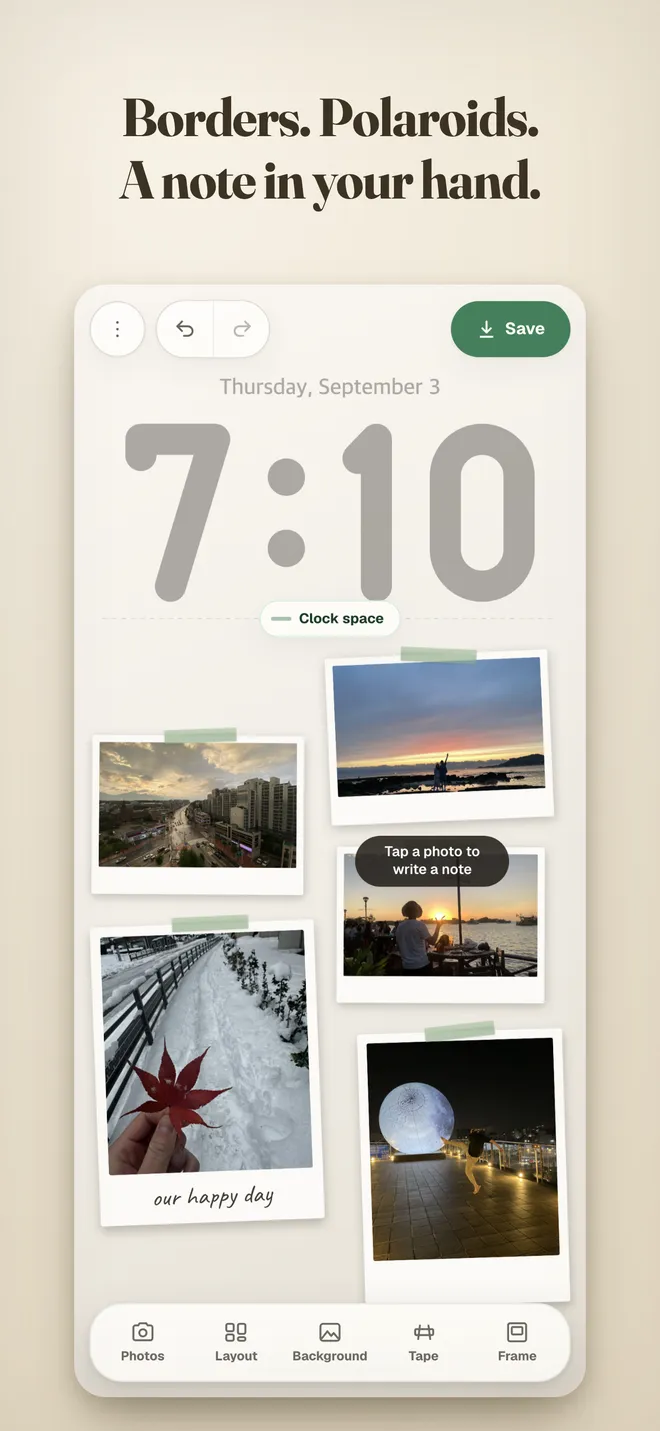
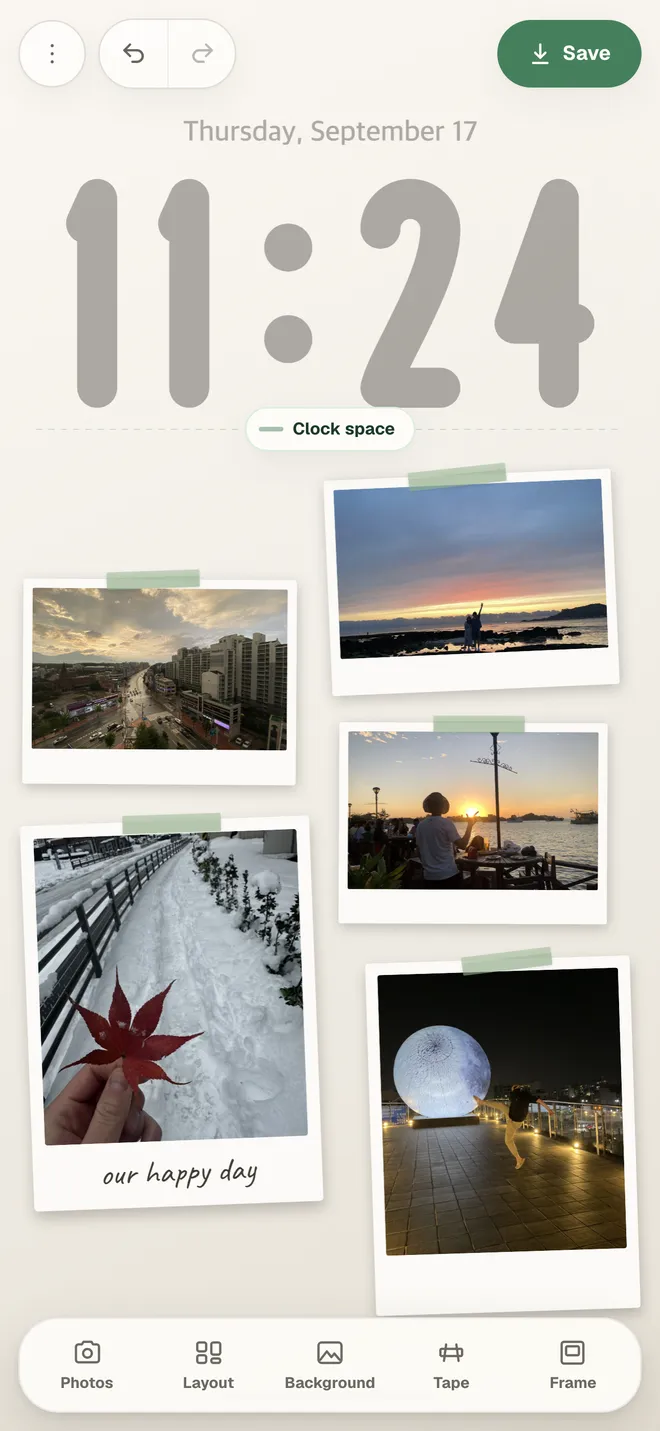
Tapey 스크린샷을 틀 없는 원본으로 바꾸고 허브 타일 자르기를 뺀다

diff --git a/docs/ko/index.html b/docs/ko/index.html
@@ -368,7 +368,7 @@ to{opacity:1;transform:scale(1.04)}
 
 <p class="tile-act"><span class="more" aria-hidden="true">자세히 보기 →</span><a class="as" href="https://apps.apple.com/app/id6778635856" aria-label="Tapey, App Store에서 보기">App Store ↗</a></p>
 </div>
-<div class="shot" style="--sw:196px;--sx:-24px;--sy:-76px"><img src="/assets/tapey/shots/ko/01.webp" alt="Tapey 편집 화면. 잠금화면 시계 아래에 폴라로이드 프레임 사진들이 워시테이프로 붙어 있고, 한 장에는 손글씨 메모가 있습니다." loading="lazy"></div>
+<div class="shot" style=""><img src="/assets/tapey/shots/ko/01.webp" alt="Tapey 편집 화면. 잠금화면 시계 아래에 폴라로이드 프레임 사진들이 워시테이프로 붙어 있고, 한 장에는 손글씨 메모가 있습니다." loading="lazy"></div>
 </article>
 
 <article class="tile t-p5" style="--acc:#EE9D1C;--ink:#EE9D1C;--glow:rgba(238,157,28,.32);--p-acc:#9A4F09">

diff --git a/docs/en/index.html b/docs/en/index.html
@@ -368,7 +368,7 @@ to{opacity:1;transform:scale(1.04)}
 
 <p class="tile-act"><span class="more" aria-hidden="true">Details →</span><a class="as" href="https://apps.apple.com/app/id6778635856" aria-label="Tapey on the App Store">App Store ↗</a></p>
 </div>
-<div class="shot" style="--sw:196px;--sx:-24px;--sy:-76px"><img src="/assets/tapey/shots/en/01.webp" alt="The Tapey editor. Below the lock screen clock, photos in Polaroid frames are held up with washi tape, and one has a handwritten note." loading="lazy"></div>
+<div class="shot" style=""><img src="/assets/tapey/shots/en/01.webp" alt="The Tapey editor. Below the lock screen clock, photos in Polaroid frames are held up with washi tape, and one has a handwritten note." loading="lazy"></div>
 </article>
 
 <article class="tile t-p5" style="--acc:#EE9D1C;--ink:#EE9D1C;--glow:rgba(238,157,28,.32);--p-acc:#9A4F09">
